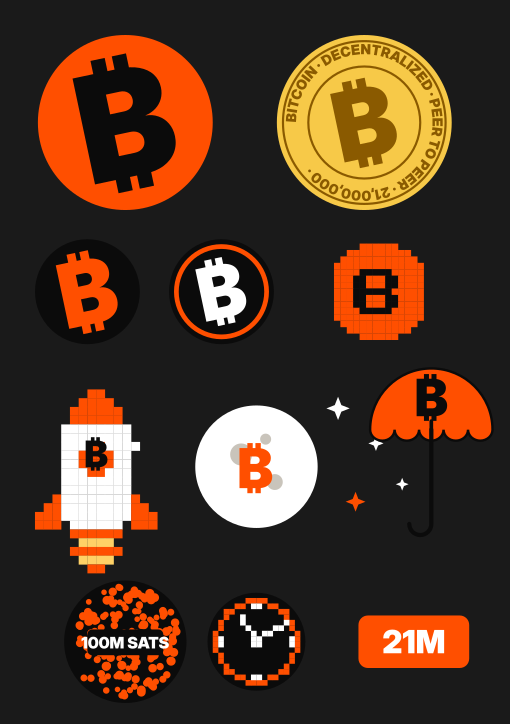
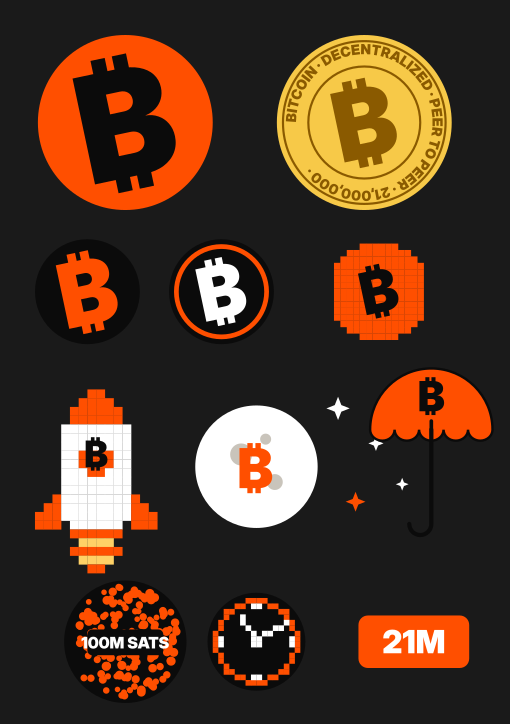
stickers 02: umbrella inside the canopy, rocket row fixed, pixel coin with the vector ₿; --plan flag

Changed region(s): [[0.6765, 0.3646, 0.7941, 0.4558], [0.7941, 0.5166, 0.8824, 0.5773], [0.2353, 0.6077, 0.2941, 0.6381]]

diff --git a/src/gen3.py b/src/gen3.py
@@ -78,7 +78,7 @@ ROCKET = [
     "....OOOOOO....",
     "...WWWWWWWW...",
     "...WWWWWWWW...",
-    "...WWWBBWWWW..",
+    "...WWWWWWWW...",
     "...WWBBBBWW...",
     "...WWBBBBWW...",
     "...WWWBBWWW...",
@@ -134,7 +134,7 @@ def umbrella(cx, cy, s):
     out = f'<path d="{d}" fill="{ORANGE}" stroke="{INK}" stroke-width="{s*0.02}"/>\n'
     out += f'<line x1="{cx}" y1="{top - rr*0.02}" x2="{cx}" y2="{top - rr*0.14}" stroke="{INK}" stroke-width="{s*0.03}" stroke-linecap="round"/>\n'
     out += f'<path d="M{cx},{top} V{cy + s*0.42} a{s*0.09},{s*0.09} 0 0,1 -{s*0.18},0" fill="none" stroke="{INK}" stroke-width="{s*0.035}" stroke-linecap="round"/>\n'
-    out += txt(cx, top - rr * 0.22, "₿", s * 0.42, fill=INK)
+    out += txt(cx, top - rr * 0.3, "₿", s * 0.34, fill=INK)
     return out
 
 
@@ -185,11 +185,7 @@ b += coin_flat(430, 420, 300)                      # the big one, 2 in
 b += coin_gold(1250, 420, 300, "A")                # the money one
 b += coin_inverse(300, 1000, 180)
 b += coin_ring(760, 1000, 180)
-b += pixels(1300, 1000, 22, [                      # pixel coin
-    "....OOOOOO....", "..OOOOOOOOOO..", ".OOOOOOOOOOOO.", "OOOOOOOOOOOOOO", "OOOOWWWWWOOOOO", "OOOWWOOOWWOOOO",
-    "OOOWWOOOWWOOOO", "OOOWWWWWWOOOOO", "OOOWWOOOWWOOOO", "OOOWWOOOWWOOOO", "OOOOWWWWWOOOOO", "OOOOOOOOOOOOOO",
-    ".OOOOOOOOOOOO.", "..OOOOOOOOOO..", "....OOOOOO....",
-], {"O": ORANGE, "W": INK})
+b += pixels(1300, 1000, 22, ['....OOOOOO....', '..OOOOOOOOOO..', '.OOOOOOOOOOOO.', 'OOOOOOOOOOOOOO', 'OOOOOOOOOOOOOO', 'OOOOOOOOOOOOOO', 'OOOOOOOOOOOOOO', 'OOOOOOOOOOOOOO', 'OOOOOOOOOOOOOO', 'OOOOOOOOOOOOOO', 'OOOOOOOOOOOOOO', 'OOOOOOOOOOOOOO', '.OOOOOOOOOOOO.', '..OOOOOOOOOO..', '....OOOOOO....'], {"O": ORANGE}) + txt(1300, 1070, "₿", 200, fill=INK, extra='transform="rotate(-12 1300 1000)"')
 b += rocket(330, 1650, 30)
 b += moon(880, 1600, 210)
 b += star(1160, 1400, 40) + star(1290, 1520, 26) + star(1220, 1720, 34, ORANGE) + star(1380, 1660, 22)
@@ -232,7 +228,7 @@ SINGLES = {
     "single-coin-gold": coin_gold(600, 600, 560, "S"),
     "single-rocket": rocket(600, 600, 52),
     "single-moon": moon(600, 600, 540),
-    "single-umbrella": umbrella(600, 600, 1100),
+    "single-umbrella": umbrella(600, 640, 760),
     "single-sats-pile": sats_pile(600, 600, 560),
     "single-clock": clock(600, 600, 1000),
 }

diff --git a/printful/create-products.py b/printful/create-products.py
@@ -130,7 +130,8 @@ def build_payload(plan, item):
 
 
 def main(argv):
-    plan = json.load(open(f"{HERE}/plan.json"))
+    plan_file = argv[argv.index("--plan") + 1] if "--plan" in argv else "plan.json"
+    plan = json.load(open(plan_file if os.path.isabs(plan_file) else f"{HERE}/{plan_file}"))
     only = argv[argv.index("--only") + 1].lower() if "--only" in argv else None
     store = argv[argv.index("--store") + 1] if "--store" in argv else DEFAULT_STORE
     env = load_env(store)
